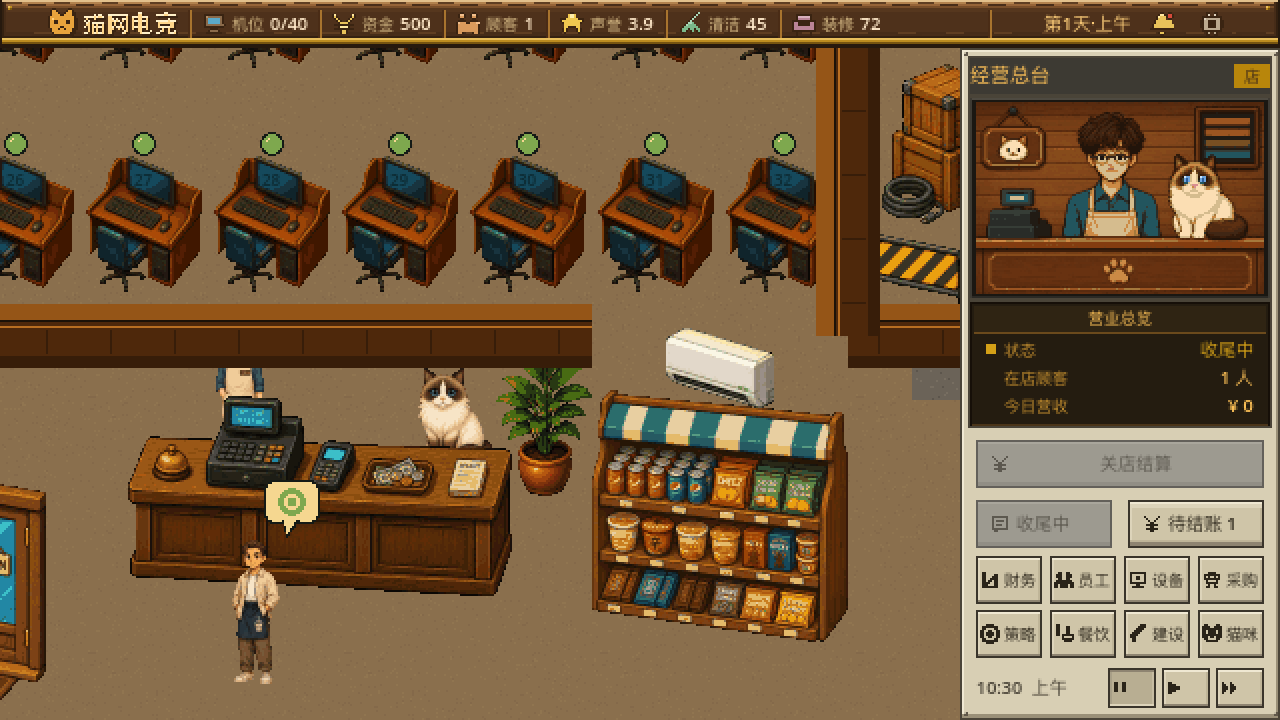
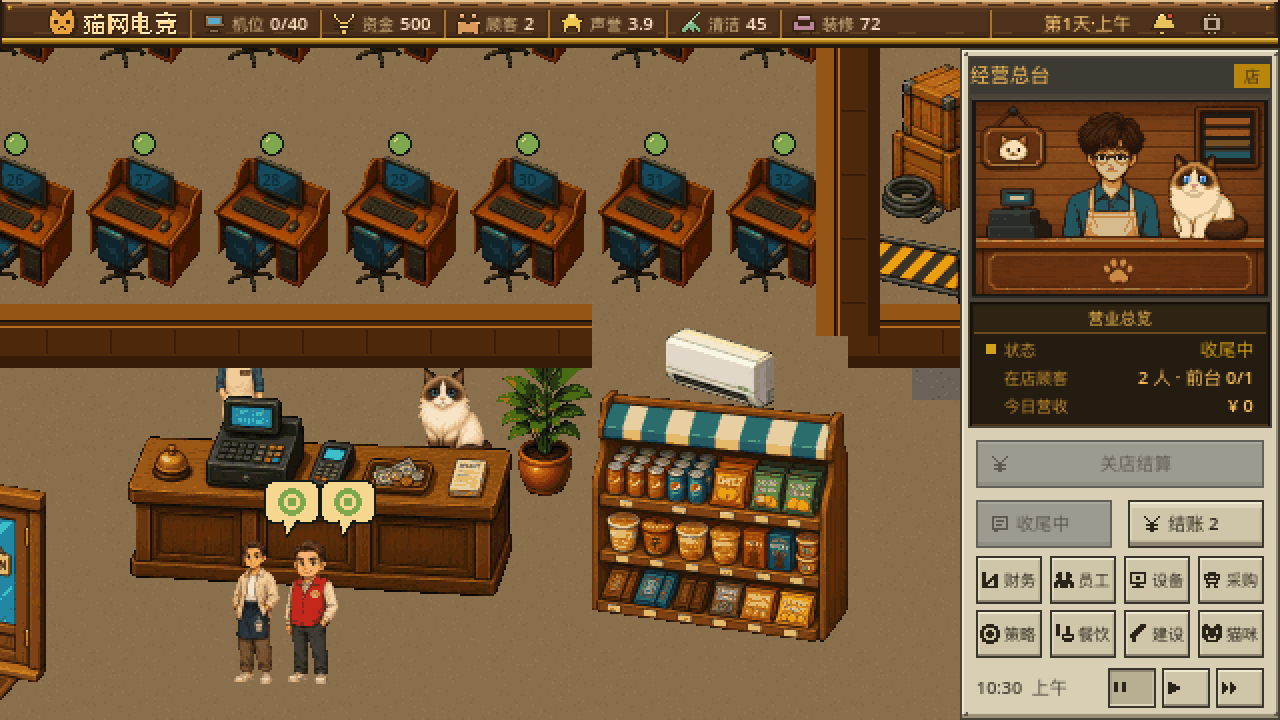
接待和结账改为柜台自动办理，各要几分钟；办理位等于老板加前台。
人多时会排长队，员工模块可花 60 元雇前台（最多 2 人），关店发日薪。手动一键跳过已拿掉，这样雇佣才有意义。

diff --git a/docs/ui/操作区功能规划.md b/docs/ui/操作区功能规划.md
@@ -5,8 +5,8 @@
 
 ## 一、交互原则
 
-1. **半自动经营**：点击开店后自动启动所有正常机器。玩家处理故障、脏污、顾客需求和经营决策，不逐台做重复劳动。
-2. **高频一键、复杂进面板**：接待、结算、清洁等高频动作直接执行；采购、调价、升级等需要选择的动作打开小面板。
+1. **半自动经营**：点击开店后自动启动所有正常机器。柜台自动接待和结账，但要耗时；人多就得雇前台。玩家处理故障、脏污和经营决策。
+2. **高频一键、复杂进面板**：清洁、维修等高频动作直接执行；招聘、采购、调价等打开小面板。
 3. **上下文按钮固定 2×2**：按钮随当前选中对象变化；无意义的操作禁用，不显示假按钮「——」。
 4. **操作必须有反馈**：成功后立即刷新场景状态点、对象概览和顶栏；失败时说明缺少的资金、库存或前置条件。
 5. **入口不重复**：设置只保留顶栏齿轮；事件走消息铃；右下固定八个经营系统。
@@ -18,7 +18,7 @@
 经营总台不是普通对象的 2×2 操作，而是“一颗全宽营业主键 + 两颗高频任务键”：
 
 - 休息中：`开店营业`；副键为 `开店检查`、`日结回顾`。
-- 营业中：`停止接客`；副键为 `待接待 N`（立刻分配空闲机位）、`待结账 N`（立刻收银入账）。
+- 营业中：`停止接客`；副键为 `排队 N`、`结账 N`，只负责跳到对应顾客。接待和结账由柜台自动办理，各耗时若干分钟；办理位 = 老板 + 已雇前台。
 - 收尾中：停止生成新客，进行中会话按已用时长出账并转入结账队列；排队未上机者直接离店。顾客清空后开放 `关店结算`。
 - 日结读取当日流水，记录营收、支出、服务人数、脏污/故障台数，天数加一、自动存档并回到休息态。
 
@@ -41,8 +41,8 @@
 
 | 按钮 | 类型 | 预期功能 | 启用条件 |
 |------|------|----------|----------|
-| 接待 / 响应 | 一键动态 | 排队时分配机位；有需求时响应需求 | 状态为待接待或有需求 |
-| 结算 | 一键 | 结算网费、商品消费和会员优惠 | 状态为待结账 |
+| 接待 / 结算 | 展示 | 柜台自动办理，按钮只显示剩余分钟 | 始终禁用，防止跳过耗时 |
+| 响应 | 一键动态 | 有需求时响应需求（点单等，尚未接入） | 状态为要点单或有需求 |
 | 办会员 | 小面板 | 选择会员档位和充值金额 | 顾客未达到最高会员 |
 | 劝离 | 确认弹窗 | 处理违规或特殊顾客，可能影响声誉 | 顾客仍在店内 |
 
@@ -74,7 +74,7 @@
 | 位置 | 模块 | 预期功能 |
 |------|------|----------|
 | 1 | 财务 | 今日账单、收支趋势、成本结构、日结 |
-| 2 | 员工 | 招聘、排班、员工状态、培训 |
+| 2 | 员工 | 招聘前台（增加同时办理人数、关店发日薪）、排班/培训仍占位 |
 | 3 | 设备 | 机器配置、维修、网络软件、游戏库 |
 | 4 | 采购 | 小卖部、餐饮原料、硬件软件、猫咪用品 |
 | 5 | 策略 | 网费、商品价、会员促销、广告 |
@@ -119,7 +119,7 @@
 
 ### 5.1 单日经营闭环进度
 
-- **已接入**：时钟与走带键、客流生成/排队/半自动分配、机位会话、心情三态、包夜一口价、下机脏污故障、日结电费、柜台三态、财务「今日账单 / 今日电费 / 日结」、装修与维修入账、关店存档、顶栏设置（暂停、音效、全屏、窗口小/中/大、存档/开局）、基础音效。
-- **仍占位**：员工、采购、策略（定价/会员/广告）、餐饮、猫咪；财务的收支趋势和成本结构。
+- **已接入**：时钟与走带键、客流生成/排队、柜台自动接待与结账（耗时、办理位）、招聘前台与日薪、机位会话、心情三态、包夜一口价、下机脏污故障、日结电费、柜台三态、财务「今日账单 / 今日电费 / 日结」、装修与维修入账、关店存档、顶栏设置（暂停、音效、全屏、窗口小/中/大、存档/开局）、基础音效。
+- **仍占位**：员工排班/培训、采购、策略（定价/会员/广告）、餐饮、猫咪；财务的收支趋势和成本结构。
 - **验收图**：`docs/ui/preview/sim_queue@2x.png`、`sim_session@2x.png`、`sim_checkout@2x.png`、`sim_opening_check@2x.png`。
 

diff --git a/docs/游戏策划文档.md b/docs/游戏策划文档.md
@@ -221,7 +221,8 @@
 - 压缩实时时钟：营业日 480 游戏分钟，1× 下 1 秒 = 1 游戏分钟；走带键暂停 / 1× / 2×。
 - 声誉为存档值，开局 3.5；展示 = `clamp(声誉 + 装修声誉 × 0.05, 1, 5)`。下机满意 +0.03、普通 0、不满 -0.05。客流间隔再除以 `展示声誉 / 3.5`，下限 4 分钟。
 - 清洁 = `clamp(42 + 装修清洁 - 脏污×3 - 故障×2, 0, 100)`。舒适只改续坐：时长 `× (1 + 舒适 × 0.01)`，不改单价。
-- 客流：仅营业中从 50 人角色库加权生成（匹配时段权重 3，否则 1；周末各时段权重 1）。柜台前排队上限 6 人；空闲机等待约 15 分钟后自动分配。白天→上午，午后→下午，晚间/夜间/深夜→晚上。
+- 客流：仅营业中从 50 人角色库加权生成（匹配时段权重 3，否则 1；周末各时段权重 1）。柜台前排队上限 6 人。白天→上午，午后→下午，晚间/夜间/深夜→晚上。
+- 柜台自动接待 / 结账：接待 3 分钟、结账 2 分钟；同时办理人数 = 老板 1 + 前台人数。开局只有老板，晚上客密时会排长队（心情已按排队分钟扣）。员工模块可花 60 元雇前台，最多 2 人，关店发日薪 18 元/人。
 - 选座：安静座位优先包间；高配优先 `performance_score`；连坐优先旁边已有人的空位。
 - 普通客：会话夹在 40～180 分钟，账单 = 时价 × 实际上机小时，四舍五入到元，**没有游戏化打折**。
 - 心情三态（基准 50）：分区匹配 +15 / 错配 -10，时段匹配 +10，舒适与清洁加减，要高配却分到低分机 -10，排队每分钟 -1（最多 -20）。≥70 满意（时长再 +10%），<40 不满（时长 -20%，提前走）。心情只改待多久和口碑。
@@ -235,7 +236,7 @@
 
 **本轮未做**
 
-员工自动接待与工资、小卖部、会员折扣、房租、广告营销、餐饮出餐、玩家自定义定价、BGM。这些入口仍保留在八模块里，数据标「待接入」。
+员工排班与培训、小卖部、会员折扣、房租、广告营销、餐饮出餐、玩家自定义定价、BGM。这些入口仍保留在八模块里，数据标「待接入」。
 
 调参见 `godot/data/sim_tuning.json`，包夜一口价见 `godot/data/pc_configs.json`，内核是 Autoload `GameState`。
 

diff --git a/docs/ui/界面布局设计.md b/docs/ui/界面布局设计.md
@@ -191,16 +191,16 @@
 在店顾客 3 人
 今日营收 ¥ 186
 ```
-待接待和待结账人数直接写在两颗副键上。切到机位改为「机位概览」，切到顾客改为「顾客概览」。
+排队和结账人数写在两颗副键上，只负责跳转；柜台按耗时自动办理。切到机位改为「机位概览」，切到顾客改为「顾客概览」。
 
 **上下文操作**：普通对象保持 2×2；经营总台单独改为第一行 144×24 全宽营业主键，第二行两颗 68×24 高频任务键。每颗键帽是 **icon + 文字**。
 
 按钮区上方必须留 **6px 机身**：概览屏和键帽都有深色描边，紧贴时两条边会糊成一条粗线，第一行按钮看着像是从琥珀屏里长出来的。另外键帽在 `GridContainer` 里要显式设 `SIZE_SHRINK_CENTER`，否则会被拉满整段高度（68px 两行时每颗被撑到 32 高，这是早期版本按钮显得笨重的原因）。
 
 按钮内容随对象变化：
-- **经营总台**：开店营业或停止接客或关店结算 / 待接待 / 待结账
+- **经营总台**：开店营业或停止接客或关店结算 / 排队 N / 结账 N
 - 选中机位：开机或关机 / 清洁 / 维修 / 详情
-- 选中顾客：接待 / 结算 / 升会员 / 劝离
+- 选中顾客：接待/结算展示剩余分钟（禁用） / 升会员 / 劝离
 - 选中货架：快捷补货 / 查看库存 / 调价 / 促销
 - 选中待装修区：预览 / 规划 / 解锁条件 / 留空
 
